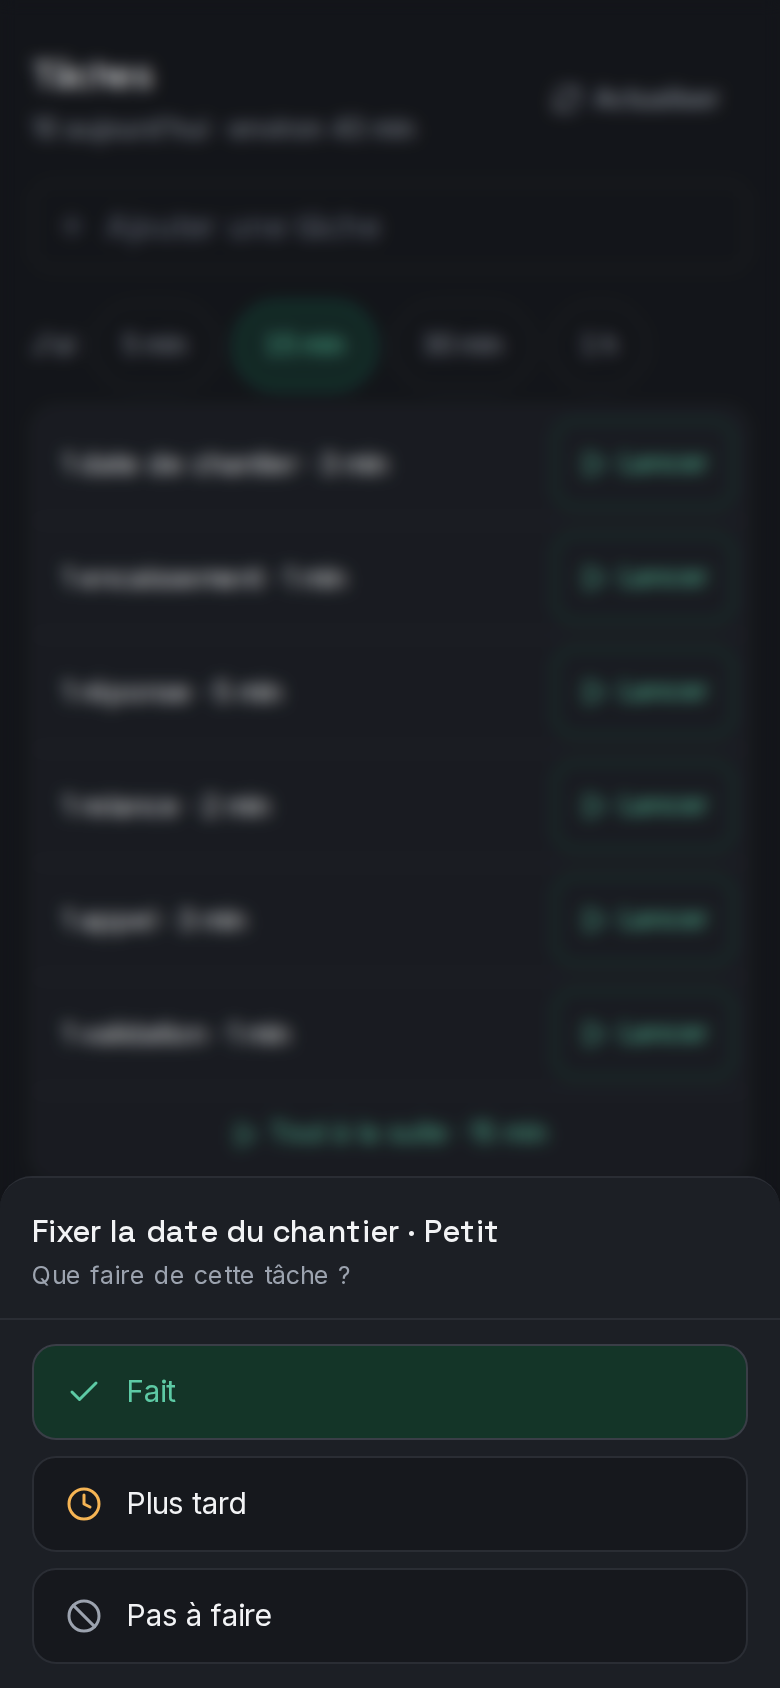
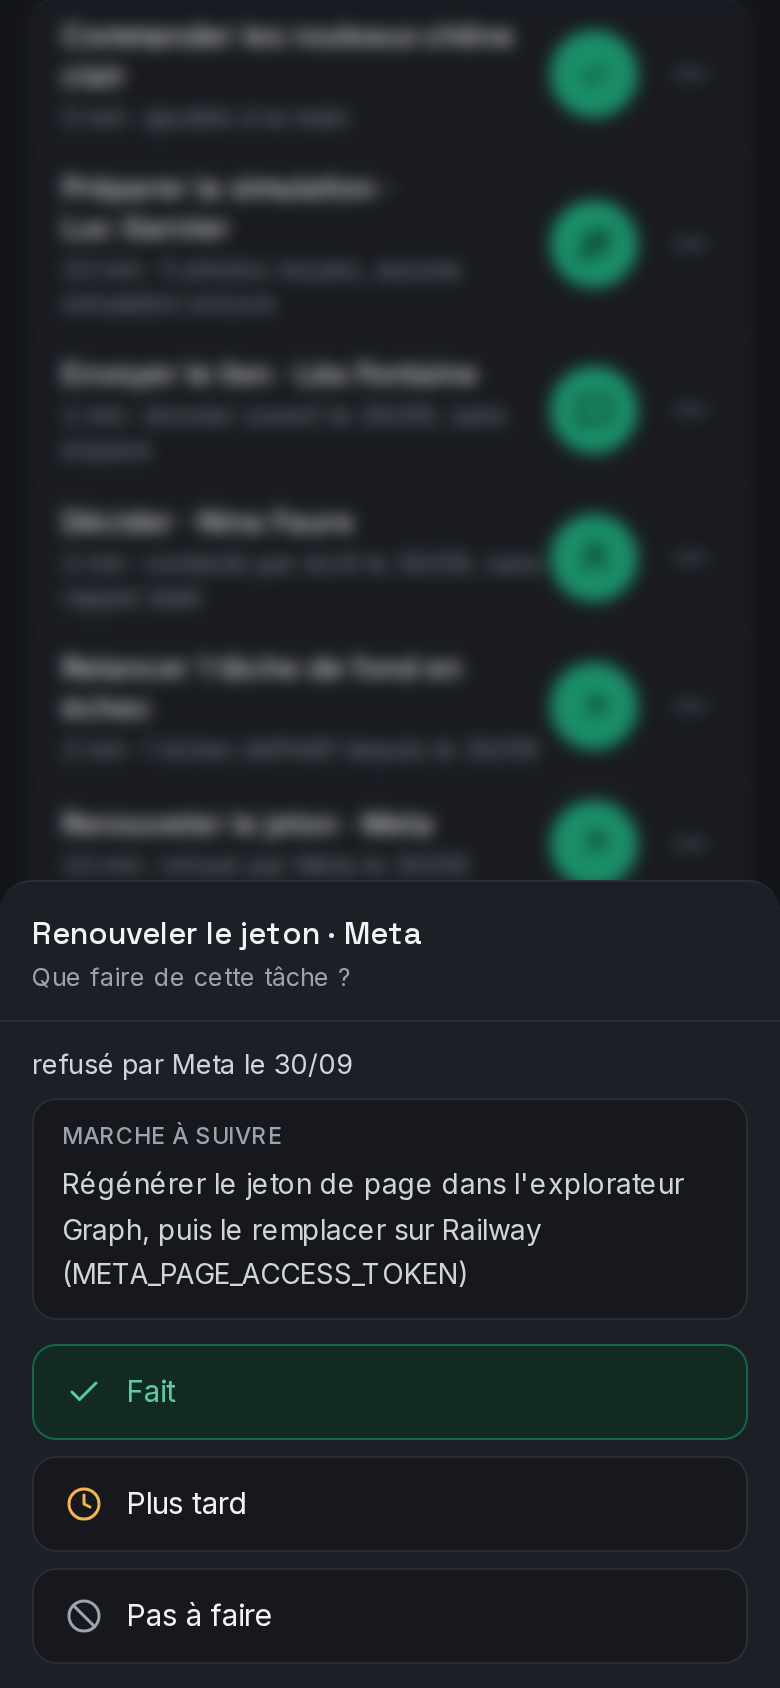
Mission 17, partie A : corrections de l'écran (titres lisibles, proposition sensible, lots, gestes), captures refaites, preuve des relances, section REPRISE
940 tests verts, lint, build.

Claude-Session: https://claude.ai/code/session_01MreHC728qVjg2vk8thRzNz

diff --git a/src/lib/a-faire/achevement.ts b/src/lib/a-faire/achevement.ts
@@ -271,6 +271,18 @@ async function preuve(tache: Tache, maintenant: Date): Promise<string | null> {
       });
       return encaissement ? `encaissement de ${euros(encaissement.montant)} saisi` : null;
     }
+    case "RELANCER_DEVIS":
+    case "RELANCER_PHOTOS": {
+      // La relance faite : un SMS de relance copié, ou le mail de relance parti (docs/TACHES.md § 5).
+      if (!tache.dossierId) return null;
+      const trace = await prisma.dossierEvenement.findFirst({
+        where: { dossierId: tache.dossierId, createdAt: { gt: depuis }, OR: [{ type: "SMS_COPIE", metadata: { contains: '"relance"' } }, { type: "MAIL_ENVOYE", metadata: { contains: "RELANCE_DEVIS" } }] },
+        orderBy: { createdAt: "desc" },
+        select: { type: true, createdAt: true },
+      });
+      if (!trace) return null;
+      return `${trace.type === "SMS_COPIE" ? "SMS de relance copié" : "mail de relance parti"} ${leOuA(trace.createdAt, maintenant)}`;
+    }
     case "VALIDER": {
       const propositionId = texteOuNull(donnees.propositionId) ?? texteOuNull(raccourci.propositionId);
       if (!propositionId) return null;

diff --git a/docs/REPRISE-MISSION.md b/docs/REPRISE-MISSION.md
@@ -5326,11 +5326,7 @@ Maquettes de la partie B rangées dans `docs/maquettes/` (premier commit).
 > **Mission 18 en attente** (énoncé complet : `docs/MISSION-18.md`) : à démarrer seulement après la fin complète de la
 > mission 17 (A, B, C, PR, rapport de 5 lignes), sur la même branche.
 
-- [ ] A Tâches — écrit et commité : cœur (`src/lib/a-faire/`), 10 détecteurs, écran `/taches` (accueil), routes
-      `/api/a-faire/…`, badges, « Tâches de fond » sur `/taches-de-fond`, créneaux libres, outils MCP `taches`,
-      `repondre_tache`, `ajouter_tache` (83 outils, empreinte `70d9e22b2bfb`), notification du matin (paramètre
-      `NOTIF_TACHES_MATIN`), captures `docs/captures/mission-17/`. 922 tests verts. En cours : migration de mise en
-      route, relecture adverse (moteur/détecteurs ; réponses/écran/MCP), puis corrections, build, PR.
+- [x] A Tâches — livrée (voir la section « Partie A » plus bas) ; PR vers `main`.
 - [ ] B Analytique — conception écrite (`docs/ANALYTIQUE.md`) ; lecture du code et des maquettes faite.
 - [ ] C Contrôle total par le MCP — inventaire des actions de l'interface fait (notes de travail), tableau à écrire.
 
@@ -5354,3 +5350,44 @@ Maquettes de la partie B rangées dans `docs/maquettes/` (premier commit).
   `REGLE_TACHE`, validée dans À valider) ; pas de règle par condition métier.
 - Migration : les clients du 29/09 sont retrouvés par empreinte de leur nom normalisé (le dépôt est public : aucun nom
   en clair) ; un seul candidat ou rien.
+
+## Mission 17, partie A — Tâches (30/09, terminée)
+
+**Livré** (conception : `docs/TACHES.md`) :
+- Modèle `TacheAFaire` (clé stable `TYPE:sujet`, occurrence du besoin dans `donnees.occurrence`), `RegleTache`,
+  `Lead.dernierContactLe`, `Dossier.prochaineActionManuelle*`. Code : `src/lib/a-faire/`.
+- Dix détecteurs (dossiers, leads, mails, messages d'espace, propositions, relances, signaux des espaces, cohérence,
+  système, tâches manuelles) + un moteur unique (`reconcilier`) : passe toutes les 15 min et 3 s après chaque geste.
+  Sources lues en entier (plus de limite de 300 pour les détecteurs).
+- Coche du CRM avec la preuve datée (« coché par le CRM : devis 2026-043 déposé », « SMS copié à 10:30 »…) ; sujet
+  disparu → fermée seule ; « Pas à faire » gardé jusqu'au prochain geste du client ; prochaine action posée à la main
+  prioritaire (événement `PROCHAINE_ACTION_MANUELLE`, compté comme une réponse par la règle de la main) ; « Fait » sur
+  cette tâche lève la vigueur ; trois fois la même raison en 30 jours → proposition `REGLE_TACHE`.
+- Écran `/taches` (accueil de l'application, premier onglet du téléphone) : Aujourd'hui (10), En lot, Plus tard, Fait
+  aujourd'hui, « Tout est traité », « J'ai 5/15/30/60 min », Commencer, balayage (droite Fait, gauche Plus tard),
+  « Annuler » 5 s, raccourcis qui font l'action (appel + fin d'appel, SMS, mail avec réponse ouverte, fil de l'espace,
+  simulateur, devis prérempli, encaissement, créneaux libres de l'agenda pour la date du chantier, Valider/Ignorer,
+  « Relire et valider » pour une proposition sensible). Liste servie en ~30 ms (build de production, 166 tâches).
+- « Tâches de fond » déménage à `/taches-de-fond`. Badge Mail = tâches mail/espace. Badge Tâches = tâches du jour.
+- MCP : `taches`, `repondre_tache` (FAIT, PLUS_TARD, PAS_A_FAIRE, ANNULER ; aperçu + jeton quand l'effet touche le
+  client ou l'argent), `ajouter_tache` ; `ce_qui_m_attend` et `point_du_jour` lisent les tâches. **83 outils**
+  (empreinte à relire par `lister_outils`) : **reconnecter le connecteur Claude**.
+- Notification du matin (8 h, paramètre `NOTIF_TACHES_MATIN`, Oui par défaut), rien envoyé aux clients.
+- Migration `taches-a-faire-17-a` (sauvegarde automatique avant) : première passe, décisions du 29/09 (J. R. Plus tard
+  7 j « J'attends sa modification visuelle » et fils archivés ; L. B. « elle fait sa simulation elle-même » ; C. M.
+  contactée par mail le 29/09 → « À rappeler » ; FLD Tech date du chantier « réglé »), clients retrouvés par empreinte
+  du nom (un seul candidat, sinon rien : voir le journal de démarrage, en initiales) ; anciens leads en un lot ; 28
+  points restants des missions 15 et 16 en tâches manuelles (lot « reprise »).
+- Relecture adverse sous deux angles (20 défauts confirmés, tous corrigés et testés). Tests : 822 → 940. Lint, build.
+- Captures (vrais passages des détecteurs, noms fictifs) : `docs/captures/mission-17/` (liste, minutes, réponses,
+  tout traité, commencer, date du chantier ; 390 et 1 440 px).
+
+**À vérifier en production** (non joignable depuis la session) : le journal de démarrage de la migration (décisions
+appliquées ou « introuvables »/« ambigus »), puis `taches` vue `PAR_TYPE` (nombre de tâches au lancement par type) et
+`/taches` sur l'iPhone.
+
+**Décisions** (en plus de celles du haut) : durée affichée dans la ligne grise sur téléphone ; « Fait » sur un appel pose
+`dernierAppelLe` ; une proposition sensible ne se valide jamais depuis la ligne (aperçu d'abord) ; aucun apprentissage
+sur « Ignorer » une proposition ; une tâche ajoutée pour une date future est « Plus tard » jusqu'à ce jour ; la
+tâche mise en surbrillance au retour est celle qu'on a ouverte si elle reste à faire, sinon la suivante ; les
+rappels du CRM dans l'agenda ne bloquent pas un jour de chantier.
